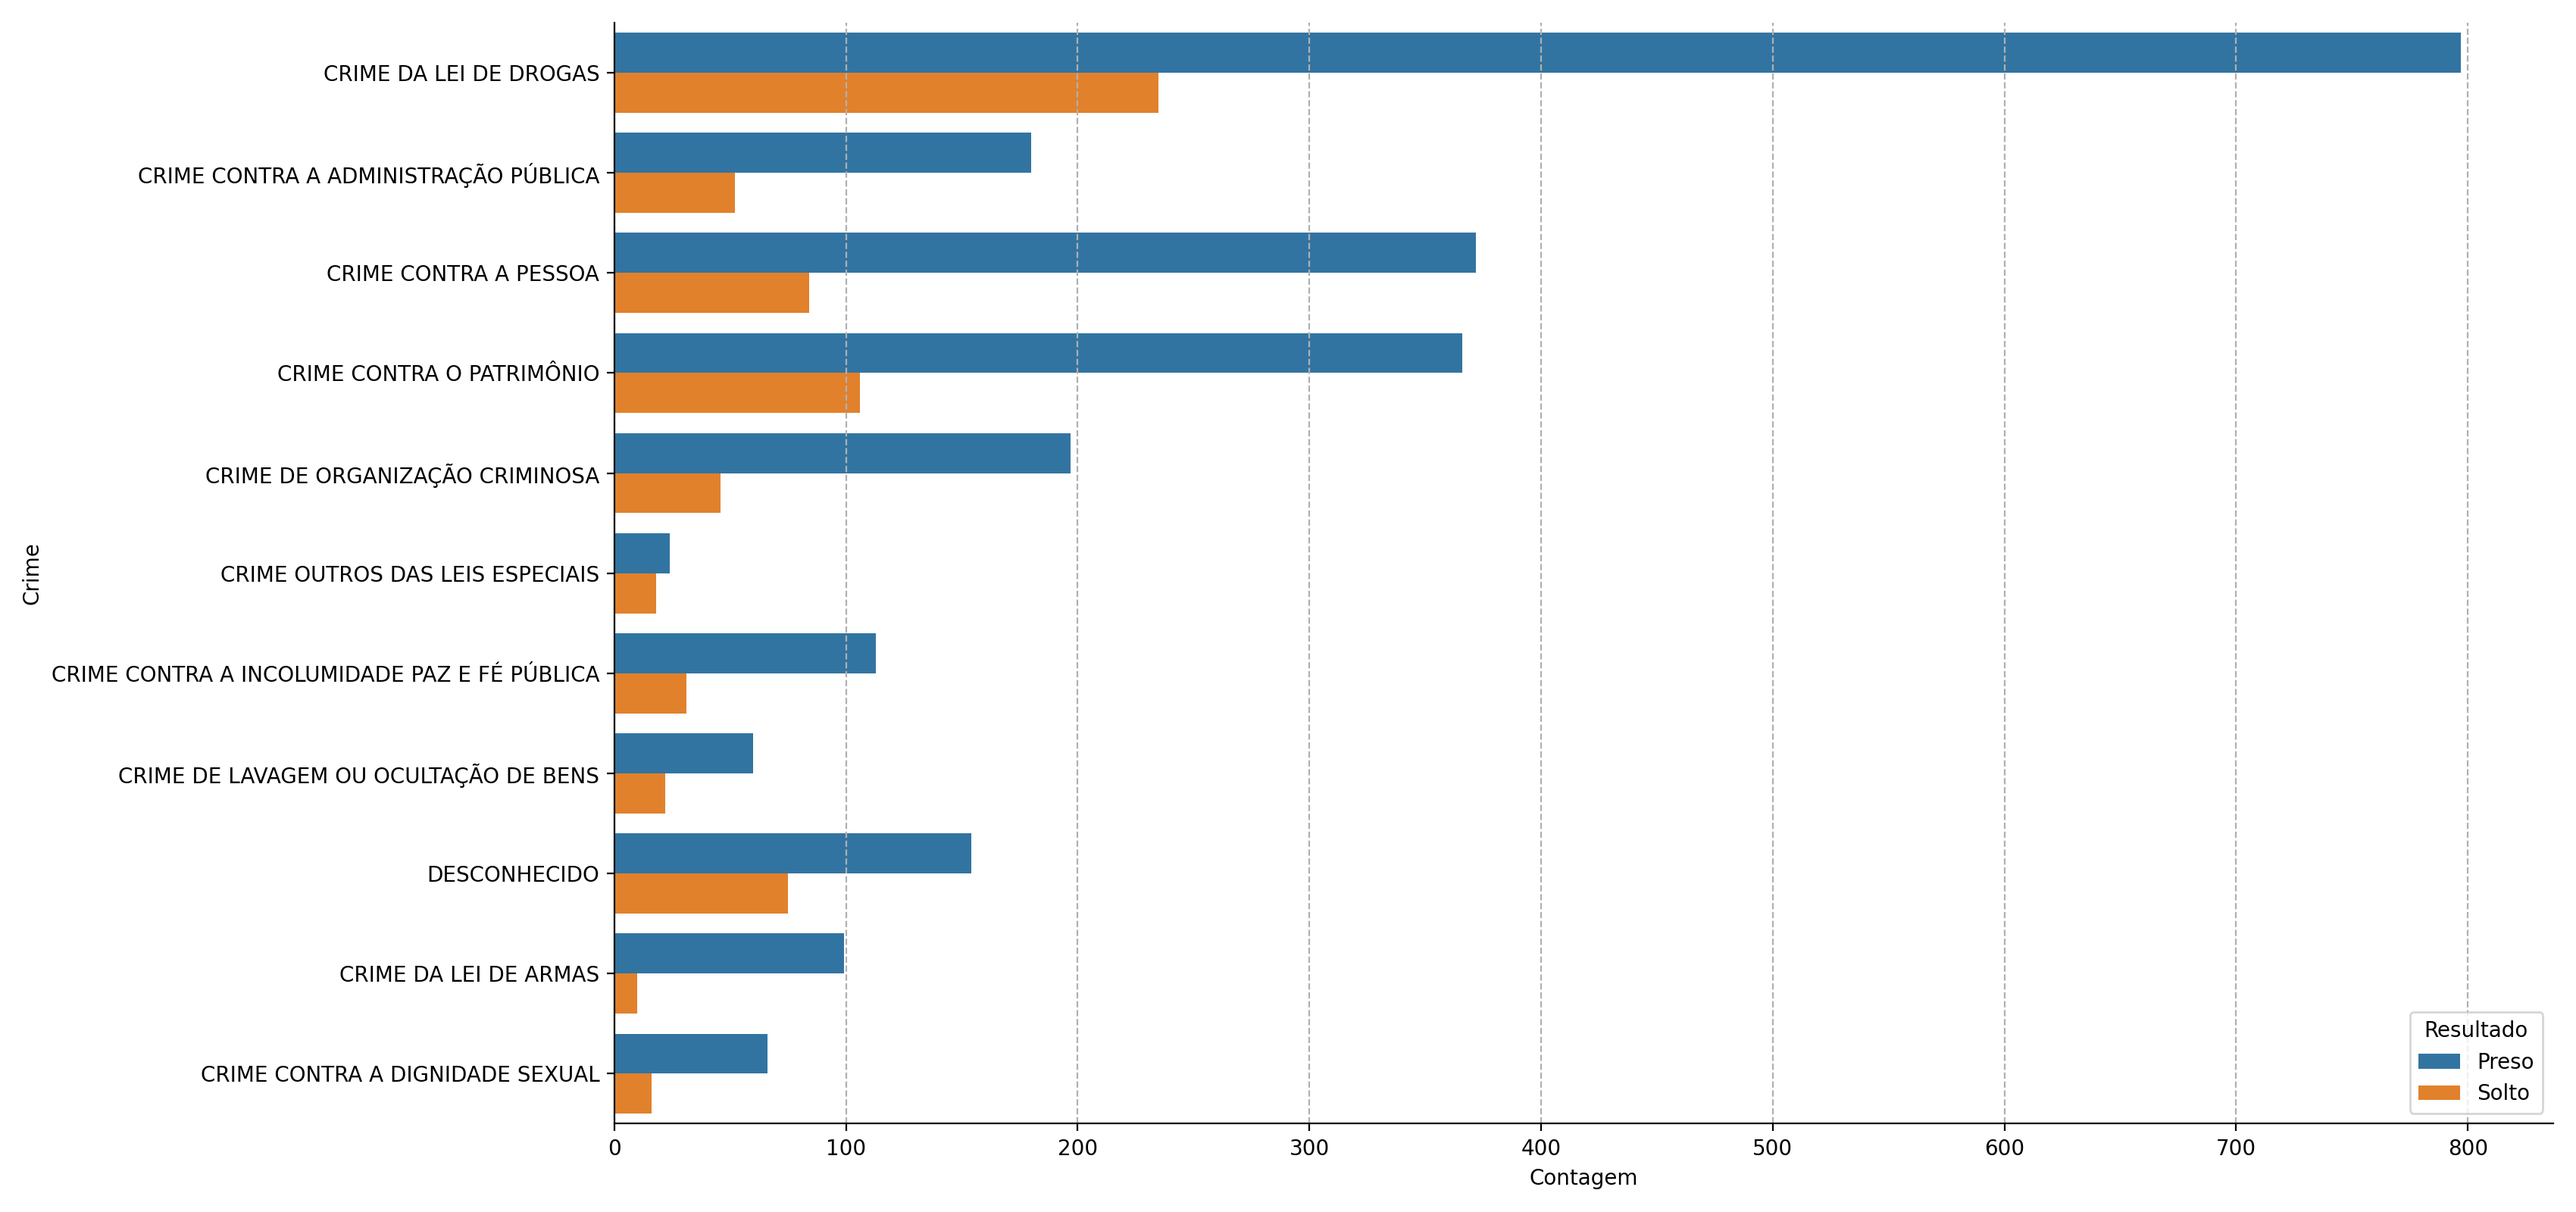
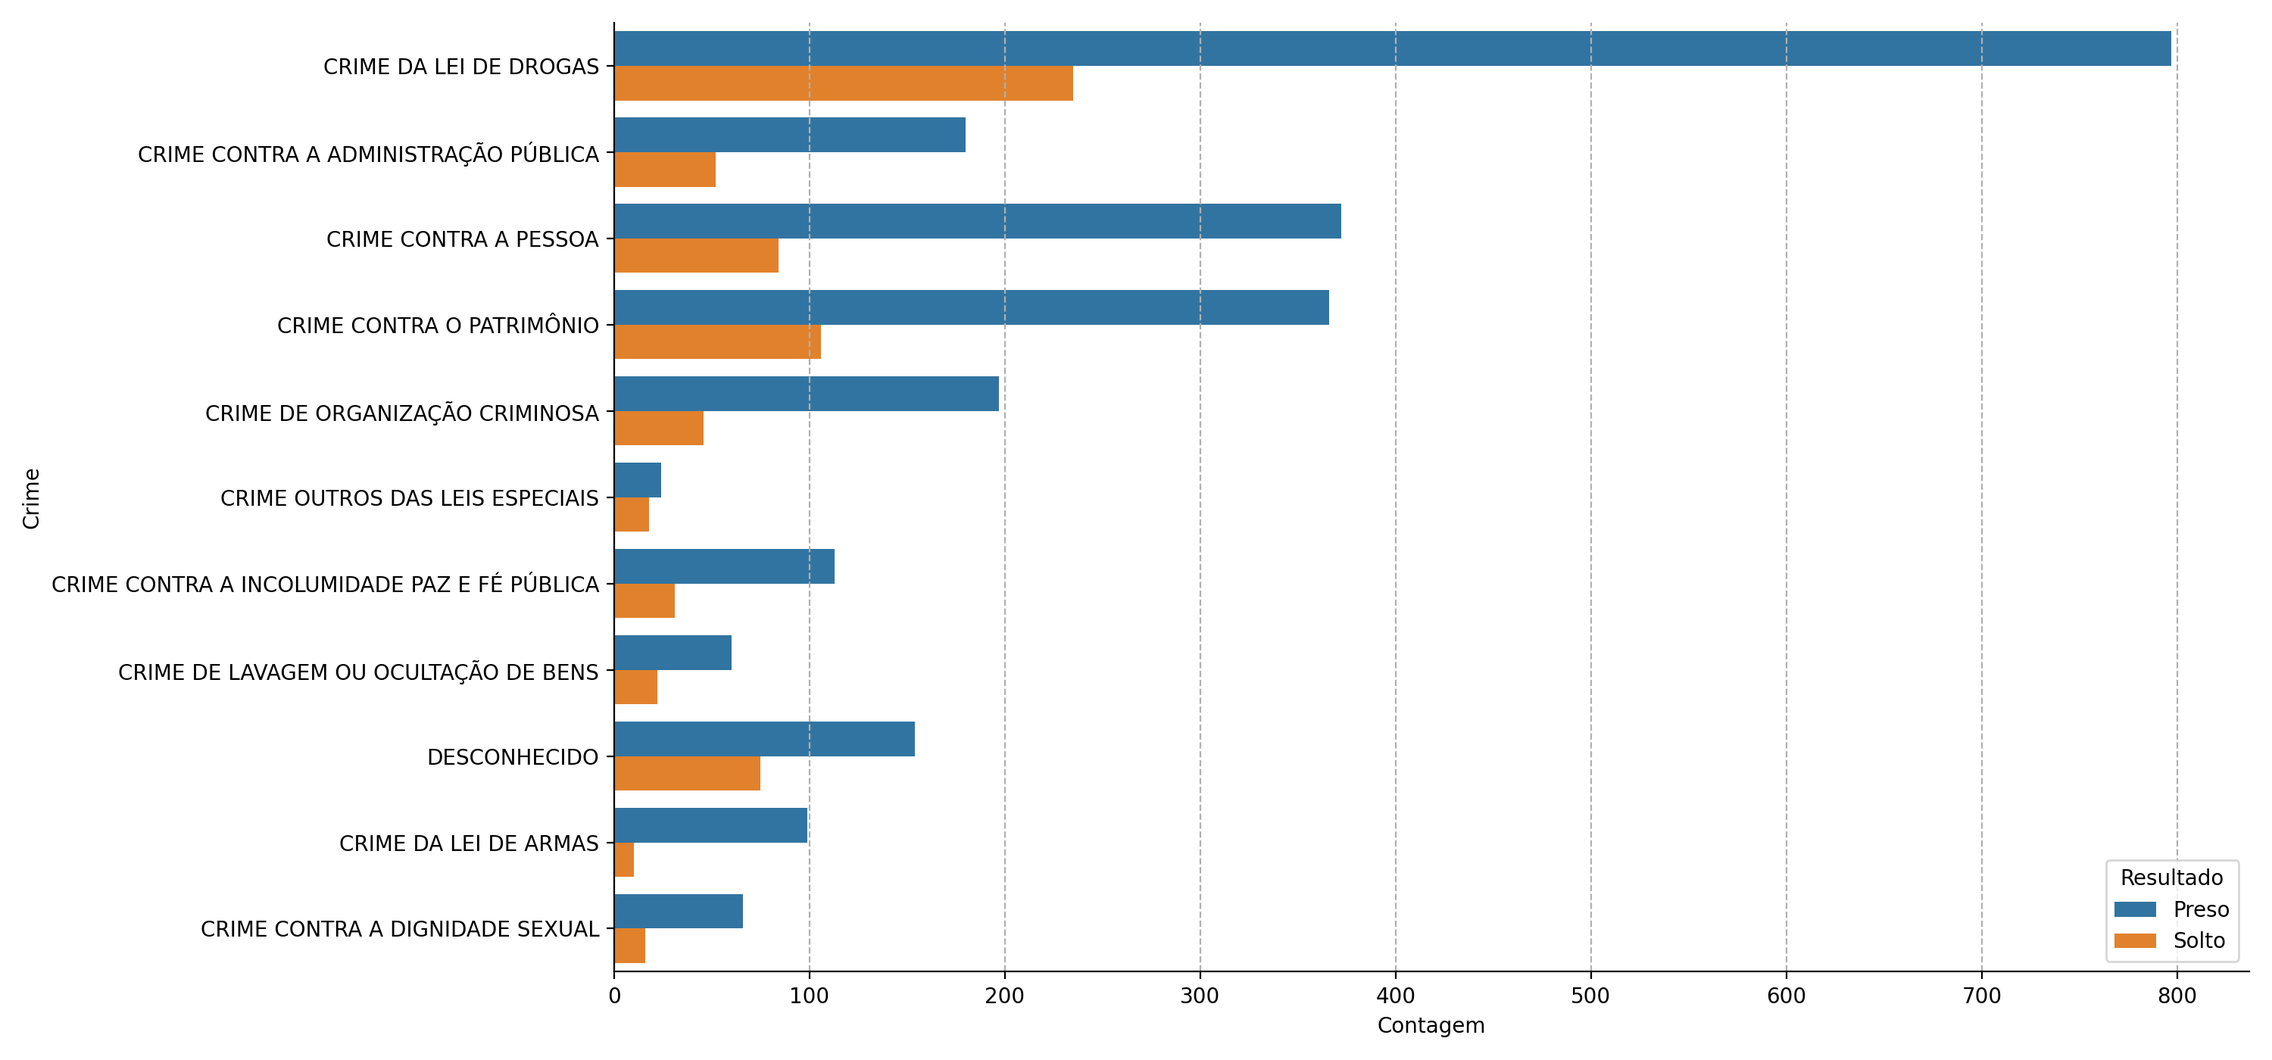
Progress on EDA

diff --git a/eda/after_proc_eda.py b/eda/after_proc_eda.py
@@ -27,7 +27,7 @@ def most_frequent_crimes():
 
     for crime_row, label in zip(list_crimes, list_labels):
         if label not in dict_crimes.keys():
-            dict_crimes[label]= {}
+            dict_crimes[label] = {}
 
         for crime in crime_row:
             if crime in dict_crimes[label].keys():
@@ -43,9 +43,9 @@ def most_frequent_crimes():
     out_path = os.path.join(PATH_OUTPUT_EDA, "crimes_count.xlsx")
     df.to_excel(out_path, index=False)
 
-    fig, ax = plt.subplots(figsize=(17, 8))
+    fig, ax = plt.subplots(figsize=(15, 7))
 
-    ax.grid(ls="..")
+    ax.grid(ls="--")
     sns.barplot(
         data=df,
         y="Crime", x="Contagem", hue="Resultado"
@@ -60,7 +60,8 @@ def most_frequent_crimes():
 def most_frequent_crimes_by_year():
     # Maybe place the label here as well
     df = pd.read_csv(PATH_PLANILHA_PROC.replace("@ext", "csv"))
-
+    print("-" * 50)
+    print("Most frequent crimes by year")
     print(df.describe())
     print(df.info())
 
@@ -106,7 +107,6 @@ def most_frequent_crimes_by_year():
                     data=df,
                     ax=ax)
 
-
     plt.tight_layout()
     plt.legend([], [], frameon=False)
 
@@ -114,6 +114,70 @@ def most_frequent_crimes_by_year():
     plt.savefig(out_path, dpi=200)
 
 
+def most_frequent_rappourter():
+    df = pd.read_csv(PATH_PLANILHA_PROC.replace("@ext", "csv"))
+    print("-" * 50)
+    print("Most frequent rappourter")
+    print(df.describe())
+    print(df.info())
+
+    list_rappourter = list(df["Relator"])
+
+    dict_rappourter = {}
+    for rapp in sorted(list_rappourter):
+        if rapp not in sorted(dict_rappourter.keys()):
+            dict_rappourter[rapp] = 1
+        else:
+            dict_rappourter[rapp] += 1
+
+    data = []
+    for key in dict_rappourter.keys():
+        data.append([key, dict_rappourter[key]])
+    df = pd.DataFrame(data, columns=["Relator", "Contagem"])
+    fig, axes = plt.subplots(1, 1, figsize=(14, 9))
+    plt.title("Rapporteur Histogram")
+    sns.barplot(data=df, x="Contagem", y="Relator", ax=axes, palette=sns.color_palette(['#1f77b4']))
+    plt.tight_layout()
+    out_path = os.path.join(PATH_OUTPUT_EDA, "histogram_rappourter.png")
+    plt.savefig(out_path, dpi=200)
+    plt.show()
+
+
+def most_frequent_rappourter_by_label():
+    df = pd.read_csv(PATH_PLANILHA_PROC.replace("@ext", "csv"))
+    print("-" * 50)
+    print("Most frequent rappourter")
+    print(df.describe())
+    print(df.info())
+
+    dict_rappourter = {}
+
+    for rapp, label in zip(df["Relator"], df["Resultado Doc"]):
+        if label not in dict_rappourter.keys():
+            dict_rappourter[label] = {}
+
+        if rapp not in dict_rappourter[label].keys():
+            dict_rappourter[label][rapp] = 1
+        else:
+            dict_rappourter[label][rapp] += 1
+
+    data = []
+    for label in sorted(dict_rappourter.keys()):
+        for rapp in sorted(dict_rappourter[label].keys()):
+            data.append([rapp, label, dict_rappourter[label][rapp]])
+    df = pd.DataFrame(data, columns=["Relator","Resultado", "Contagem"])
+    fig, axes = plt.subplots(1, 1, figsize=(14, 9))
+
+    plt.title("Rapporteur Histogram by Label")
+    sns.barplot(data=df, x="Contagem", y="Relator",hue="Resultado", ax=axes)
+    plt.tight_layout()
+    out_path = os.path.join(PATH_OUTPUT_EDA, "histogram_rappourter_label.png")
+    plt.savefig(out_path, dpi=200)
+    plt.show()
+
+
 def eda_after_proc_part_i():
     most_frequent_crimes()
     most_frequent_crimes_by_year()
+    most_frequent_rappourter()
+    most_frequent_rappourter_by_label()
